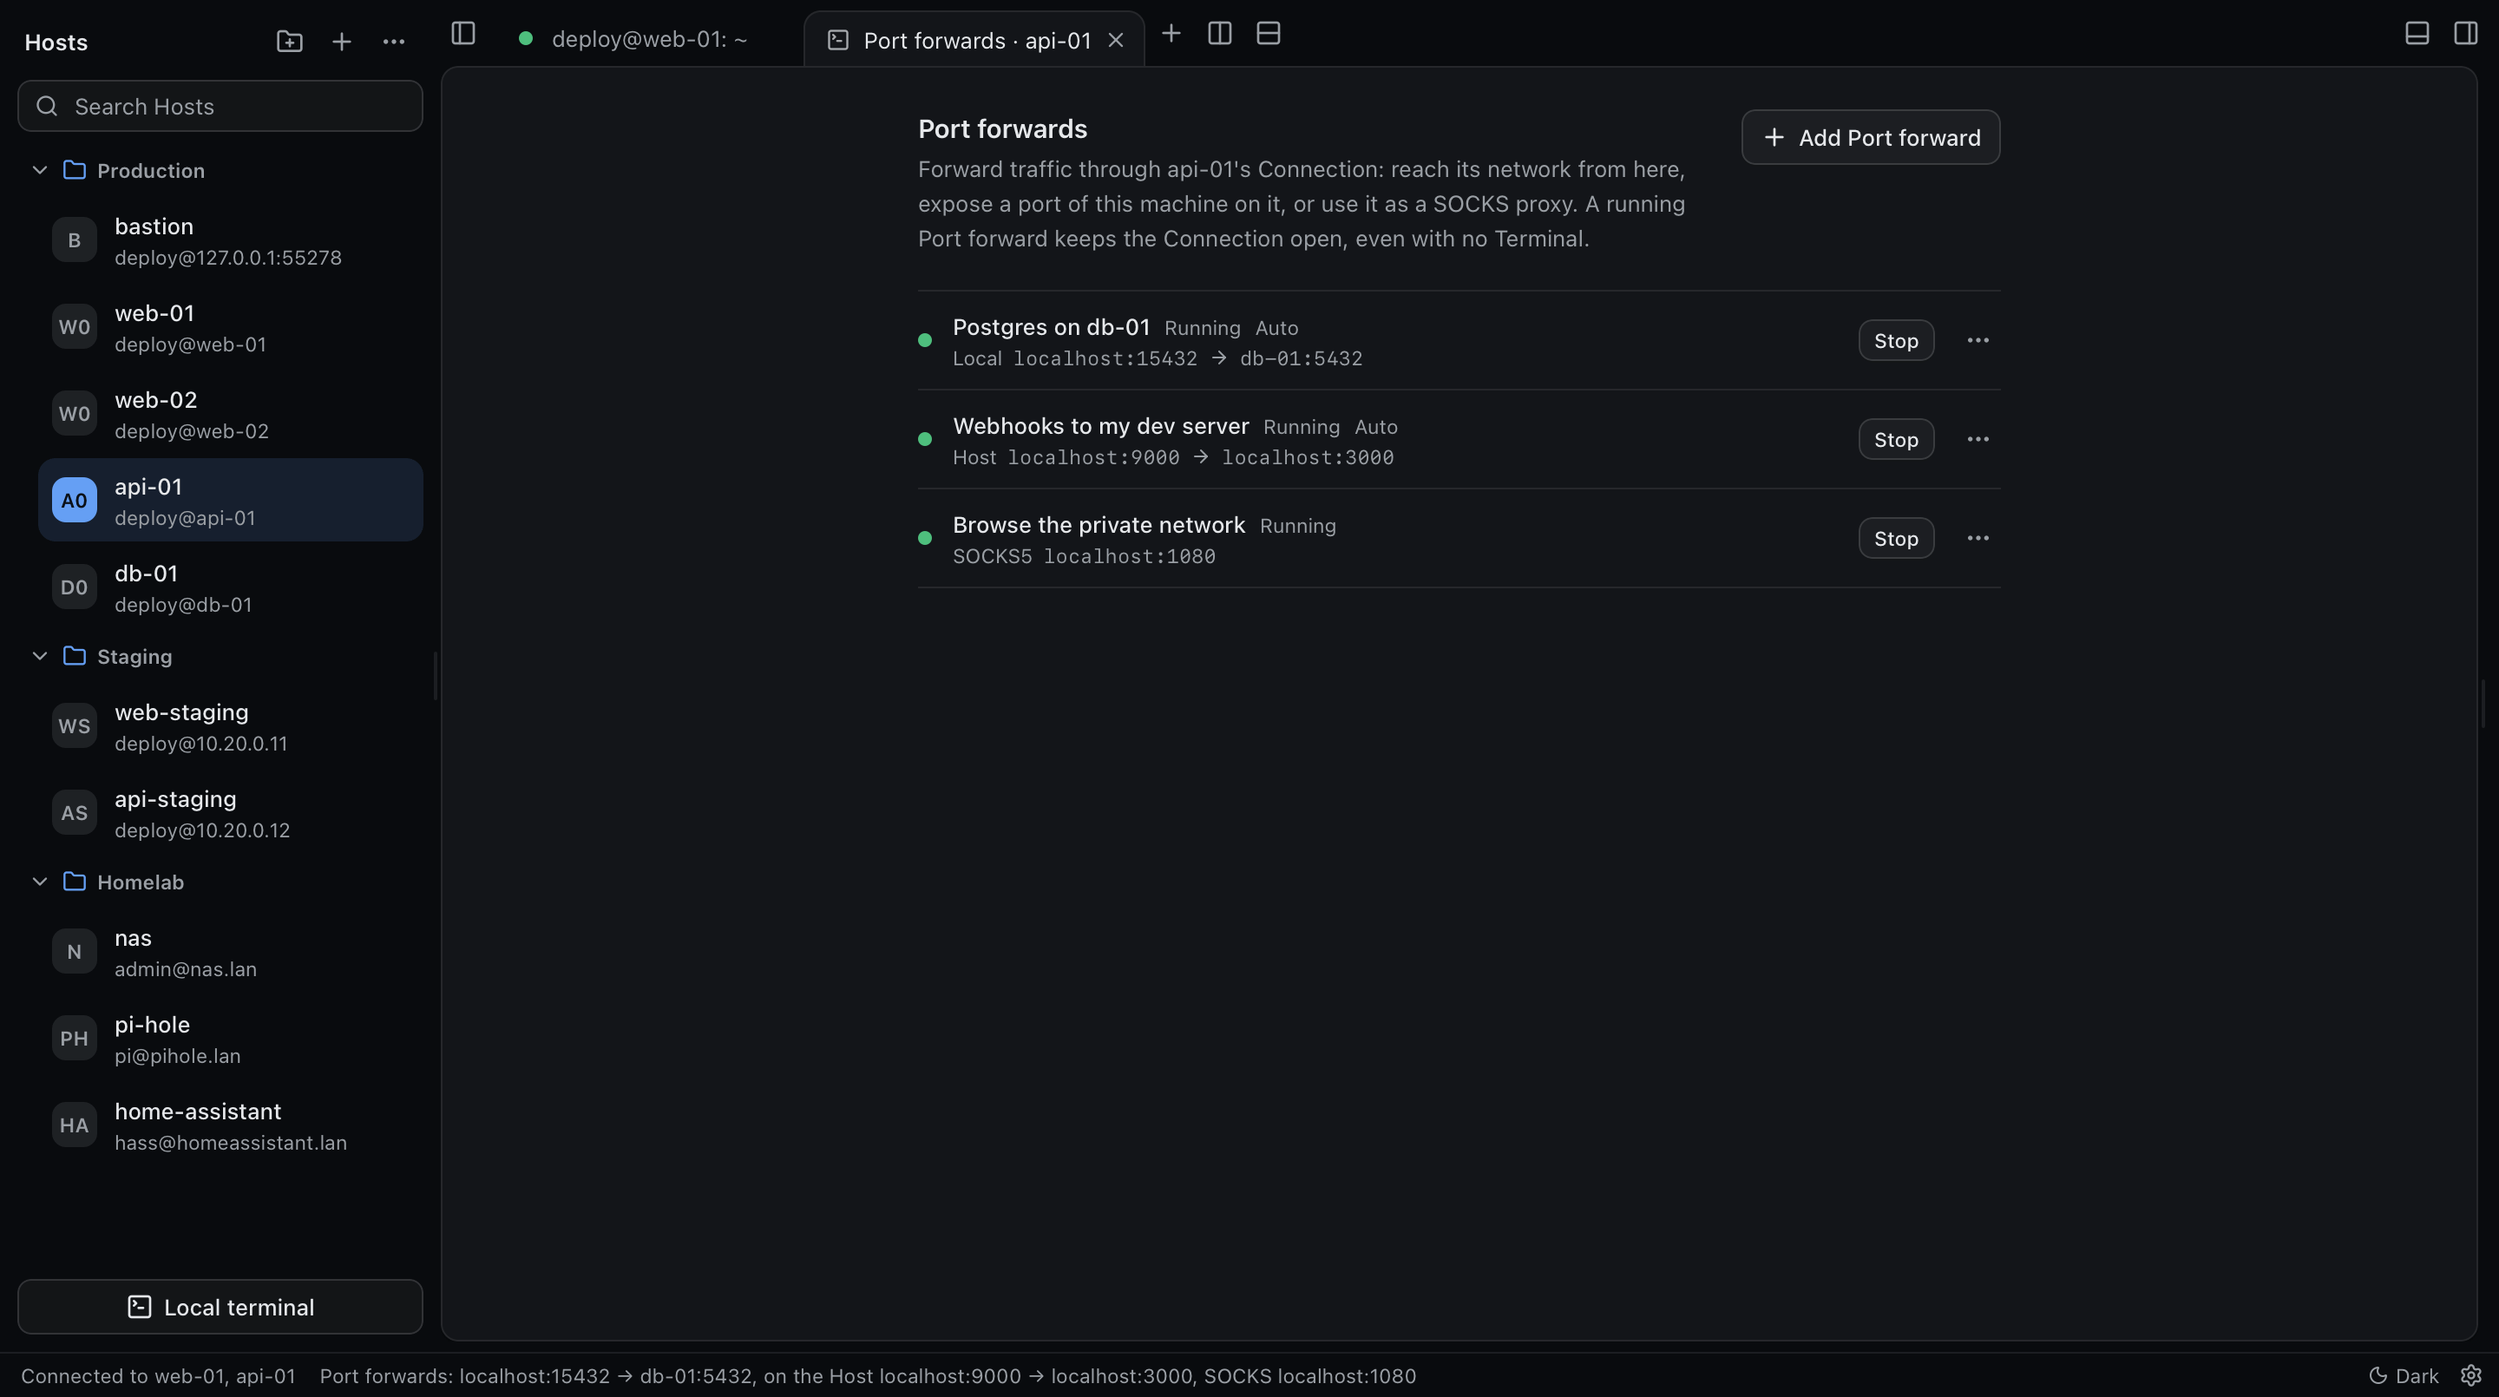
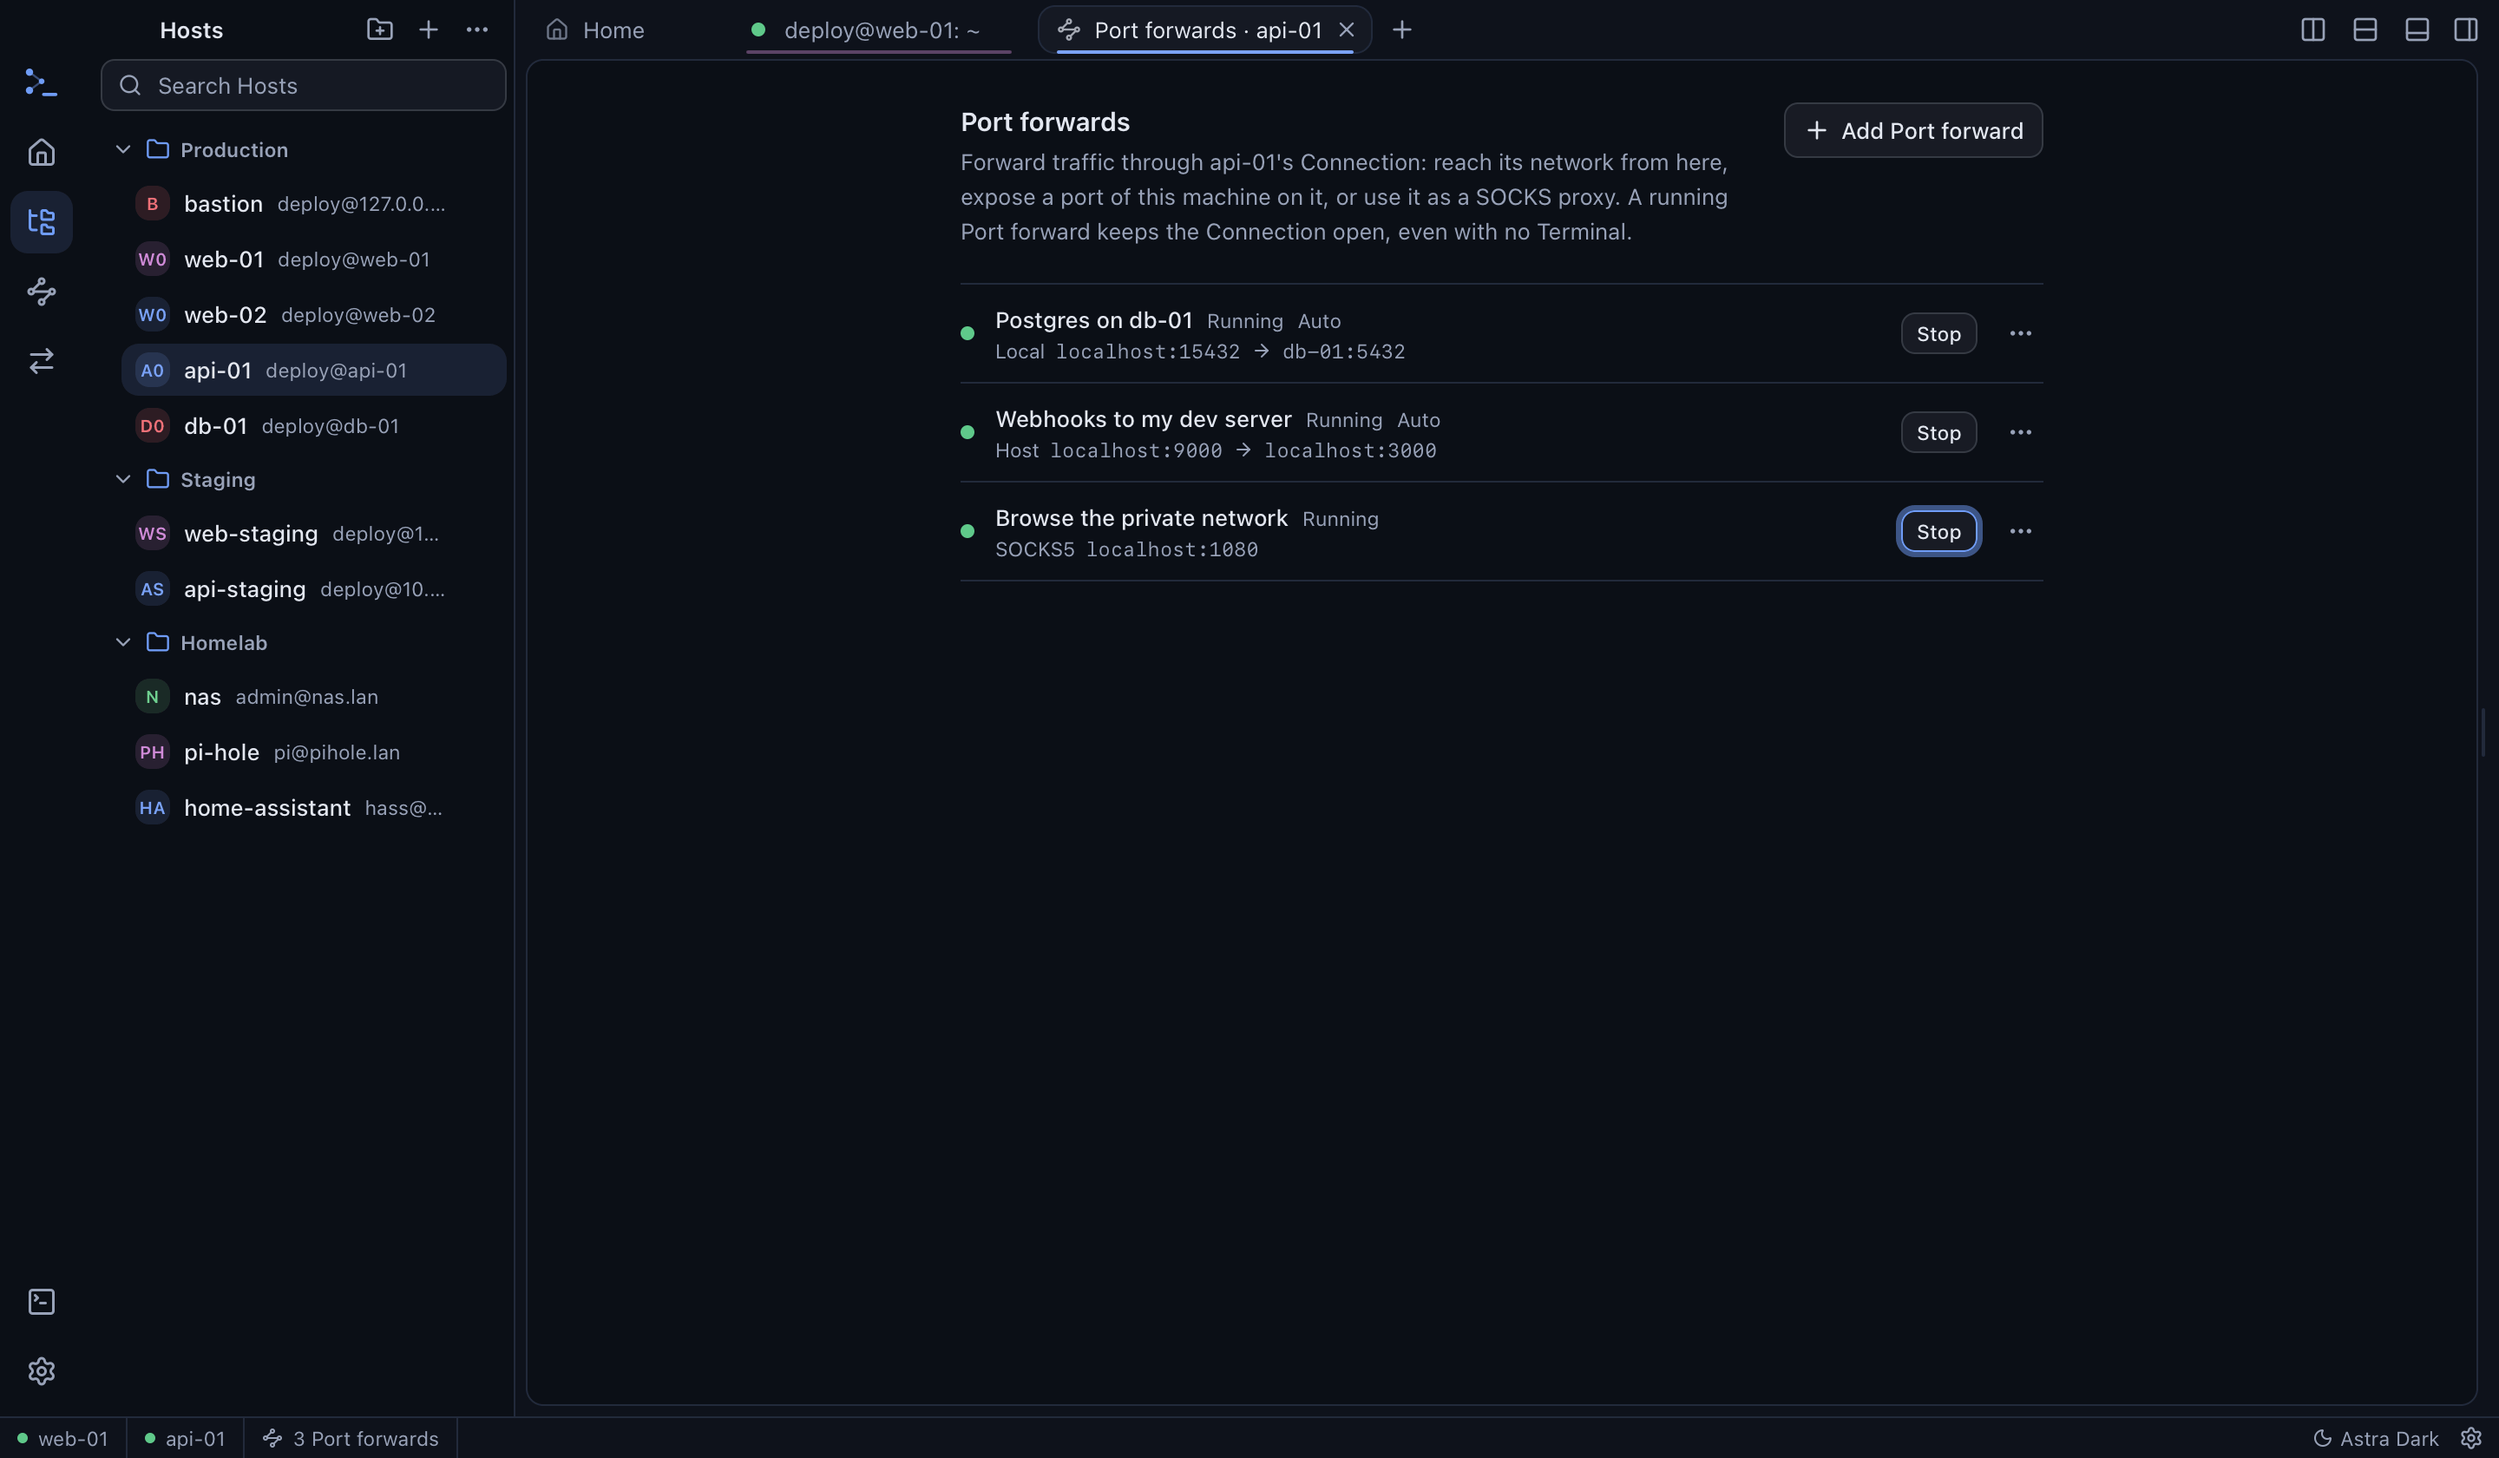
fix(hosts): keep long addresses inside the sidebar column
The Host list grid sized its column to the widest row, so selecting a
Host scrolled the whole column sideways. Clamp the column and hide
horizontal overflow; refresh the README screenshots for the redesign.

diff --git a/e2e/screenshots/screenshots.e2e.ts b/e2e/screenshots/screenshots.e2e.ts
@@ -103,11 +103,16 @@ async function setFilePanel(shown: boolean): Promise<void> {
   if (has) await domClick(`[aria-label="${want}"]`);
 }
 
-async function setTheme(theme: "Light" | "Dark"): Promise<void> {
+/** Opens Settings, stops following the system appearance, and picks the named theme's card. */
+async function setTheme(name: string): Promise<void> {
   await shortcut("Comma", ",");
-  const option = $(`//*[@role="radiogroup"][@aria-label="Theme"]//*[@role="radio"][normalize-space()="${theme}"]`);
-  await option.waitForDisplayed();
-  await option.click();
+  const off = $(`//*[@role="radiogroup"][@aria-label="Follow system appearance"]//*[@role="radio"][normalize-space()="Off"]`);
+  await off.waitForDisplayed();
+  if ((await off.getAttribute("aria-checked")) !== "true") await off.click();
+  const card = $(`[role="radio"][aria-label="${name}"]`);
+  await card.waitForDisplayed();
+  await card.click();
+  await parkPointer();
 }
 
 async function closeTab(title: string): Promise<void> {
@@ -242,15 +247,24 @@ describe("README screenshots", () => {
 
   it("Settings, then the main view in the light theme", async () => {
     await shortcut("Comma", ",");
-    await $('[role="radiogroup"][aria-label="Theme"]').waitForDisplayed();
+    await $('[role="radiogroup"][aria-label="Dark themes"]').waitForDisplayed();
     await setFilePanel(false);
     await shot("settings");
-    await setTheme("Light");
+    await setTheme("Astra Light");
     await setFilePanel(true);
     await closeTab("Settings");
     await focusTerminal();
     await shot("main-light");
-    await setTheme("Dark");
+    // Two of the other whole-window themes: chrome and Terminal recolour together.
+    await setTheme("Tokyo Night");
+    await closeTab("Settings");
+    await focusTerminal();
+    await shot("theme-tokyo-night");
+    await setTheme("Catppuccin Latte");
+    await closeTab("Settings");
+    await focusTerminal();
+    await shot("theme-catppuccin-latte");
+    await setTheme("Astra Dark");
     await closeTab("Settings");
   });
 

diff --git a/src/features/forwards/ForwardsSidebar.tsx b/src/features/forwards/ForwardsSidebar.tsx
@@ -19,7 +19,7 @@ export function ForwardsSidebar({ onOpenForwards }: { onOpenForwards(host: Host)
   return (
     <section aria-label={t("forwards.title")} className="flex h-full min-h-0 flex-col pr-1 pl-2.5">
       <SidebarHeader title={t("forwards.title")} />
-      <div className="min-h-0 flex-1 overflow-y-auto pb-2.5">
+      <div className="min-h-0 flex-1 overflow-x-hidden overflow-y-auto pb-2.5">
         {rows.length === 0 ? (
           <div className="flex flex-col items-start gap-2 px-1 py-4">
             <ArrowRightLeft className="text-muted-foreground size-5" aria-hidden />
@@ -27,7 +27,7 @@ export function ForwardsSidebar({ onOpenForwards }: { onOpenForwards(host: Host)
             <p className="text-muted-foreground text-pretty">{t("forwards.sidebar.emptyBody")}</p>
           </div>
         ) : (
-          <ul aria-label={t("forwards.title")} className="grid gap-0.5">
+          <ul aria-label={t("forwards.title")} className="grid grid-cols-[minmax(0,1fr)] gap-0.5">
             {rows.map(({ host, running, total }) => (
               <li key={host.id}>
                 <button

diff --git a/src/features/hosts/HostList.tsx b/src/features/hosts/HostList.tsx
@@ -236,7 +236,7 @@ export function HostList({ tree, nodes, searching, selected, onSelect, renamingG
             )}
           </TreeRow>
           {open && (
-            <ul role="group" aria-label={group.name} className="grid gap-0.5 pt-0.5 pl-3">
+            <ul role="group" aria-label={group.name} className="grid grid-cols-[minmax(0,1fr)] gap-0.5 pt-0.5 pl-3">
               {node.children.length > 0 ? (
                 render(node.children)
               ) : (
@@ -259,7 +259,7 @@ export function HostList({ tree, nodes, searching, selected, onSelect, renamingG
       onDragCancel={() => endDrag(null)}
     >
       <div className="flex min-h-full flex-col">
-        <ul aria-label={t("hosts.title")} className="grid gap-0.5">
+        <ul aria-label={t("hosts.title")} className="grid grid-cols-[minmax(0,1fr)] gap-0.5">
           {render(nodes)}
         </ul>
         {!searching && <RootDropZone active={drop?.key === "root"} />}

diff --git a/src/features/hosts/HostsSidebar.tsx b/src/features/hosts/HostsSidebar.tsx
@@ -18,7 +18,7 @@ export function HostsSidebar({ actions, children, emptyAction }: HostsSidebarPro
   return (
     <section aria-label={t("hosts.title")} className="flex h-full min-h-0 flex-col pr-1 pl-2.5">
       <SidebarHeader title={t("hosts.title")}>{actions}</SidebarHeader>
-      <div className="min-h-0 flex-1 overflow-y-auto pb-2.5">{children ?? <HostListEmpty action={emptyAction} />}</div>
+      <div className="min-h-0 flex-1 overflow-x-hidden overflow-y-auto pb-2.5">{children ?? <HostListEmpty action={emptyAction} />}</div>
     </section>
   );
 }
